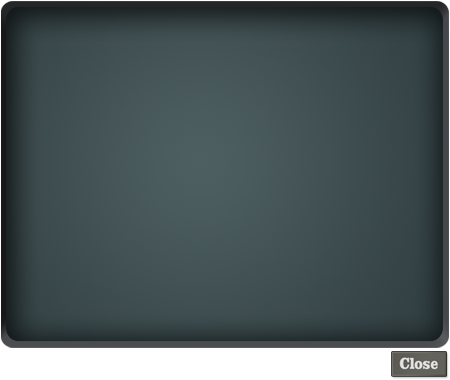
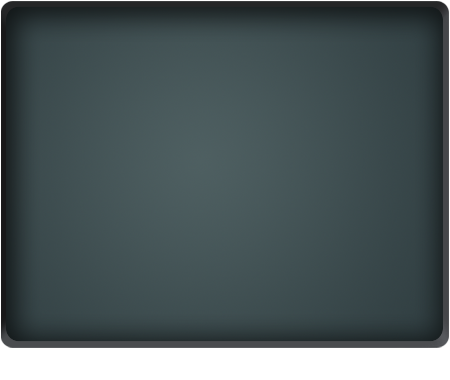
There was a bug with the Close button on the terminal only working part of the time, which I traced to the fact that the PNG image file for the terminal hardcoded the Close button into the terminal image, which covered up the actual close button that the GUI was trying to make. Before this hadn't ca
I removed the close button from the terminal image,
so it always gets created dynamically by the GUI window
paint routine instead, and altered the buttons of the
popup editor to always use the Unity GUI.Button type
instead of trying to roll-my-own button out of a box.
this is much cleaner with the skinning and the window
stacking.

Changed region(s): [[0.8711, 0.9263, 0.9956, 1.0]]

diff --git a/src/Screen/KOSTextEditPopup.cs b/src/Screen/KOSTextEditPopup.cs
@@ -31,7 +31,6 @@ namespace kOS.Screen
         private string contents = "";
         private readonly Texture2D resizeImage = new Texture2D(0, 0, TextureFormat.DXT1, false);
         private bool resizeMouseDown;
-        private Vector2 mouseUpPosRelative;   // Position the mouse was at when button went up.
         private Vector2 resizeOldSize; // width and height it had when the mouse button went down on the resize button.
         private bool isDirty; // have any edits occured since last load or save?
         private bool frozen;
@@ -127,10 +126,6 @@ namespace kOS.Screen
                 windowRect = GUI.Window( uniqueId, windowRect, ProcessWindow, "" );
                 // Some mouse global state data used by several of the checks:
                 Event e = Event.current;
-                if (consumeEvent)
-                {
-                    mouseUpPosRelative = new Vector2(mousePosAbsolute.x, mousePosAbsolute.y);
-                }
 
                 if (consumeEvent)
                 {
@@ -432,9 +427,9 @@ namespace kOS.Screen
             DrawWindow( windowId );
 
             CheckResizeDrag();
-            CheckExitClicked();
-            CheckSaveClicked();
-            CheckReloadClicked();
+            // CheckExitClicked();
+            // CheckSaveClicked();
+            // CheckReloadClicked();
 
             CalcOuterCoords();
         }
@@ -453,9 +448,18 @@ namespace kOS.Screen
             GUILayout.EndArea();
             
             GUI.Label( labelCoords, BuildTitle() );
-            GUI.Box( exitCoords, EXIT_BUTTON_TEXT );
-            GUI.Box( saveCoords, SAVE_BUTTON_TEXT );
-            GUI.Box( reloadCoords, RELOAD_BUTTON_TEXT );
+            if (GUI.Button( exitCoords, EXIT_BUTTON_TEXT ))
+            {
+                ExitEditor();
+            }
+            if (GUI.Button( saveCoords, SAVE_BUTTON_TEXT ))
+            {
+                SaveContents();
+            }
+            if (GUI.Button( reloadCoords, RELOAD_BUTTON_TEXT ))
+            {
+                ReloadContents();
+            }
             KeepCursorScrolledInView();            
 
             GUI.Box( resizeButtonCoords, resizeImage );
@@ -496,8 +500,11 @@ namespace kOS.Screen
 
             Vector2 labSize  = GUI.skin.label.CalcSize( new GUIContent(BuildTitle()) );
             Vector2 exitSize = GUI.skin.box.CalcSize(   new GUIContent(EXIT_BUTTON_TEXT) );
+            exitSize = new Vector2(exitSize.x+4, exitSize.y+4);
             Vector2 saveSize = GUI.skin.box.CalcSize(   new GUIContent(SAVE_BUTTON_TEXT) );
+            saveSize = new Vector2(saveSize.x+4, saveSize.y+4);
             Vector2 reloadSize = GUI.skin.box.CalcSize( new GUIContent(RELOAD_BUTTON_TEXT) );
+            reloadSize = new Vector2(reloadSize.x+4, reloadSize.y+4);
                 
             labelCoords = new Rect( 5, 1, labSize.x, labSize.y);
                 

diff --git a/src/Screen/TermWindow.cs b/src/Screen/TermWindow.cs
@@ -323,9 +323,10 @@ namespace kOS.Screen
             GUI.color = isLocked ? color : colorAlpha;
             GUI.DrawTexture(new Rect(10, 10, terminalImage.width, terminalImage.height), terminalImage);
 
-            if (GUI.Button(new Rect(580, 10, 80, 30), "Close"))
+            if (GUI.Button(closeButtonRect, "Close"))
             {
                 Close();
+                Event.current.Use();
             }
 
             GUI.DragWindow(new Rect(0, 0, 10000, 500));
@@ -363,15 +364,7 @@ namespace kOS.Screen
             {
                 ShowCharacterByAscii((char)1, screen.CursorColumnShow, screen.CursorRowShow, currentTextColor);
             }
-
             GUI.EndGroup();
-            if (Event.current.type == EventType.MouseDown || IsInsideMyExposedPortion(mousePosAbsolute) )
-            {
-                if (closeButtonRect.Contains(mousePosRelative))
-                {
-                    Close();
-                }
-            }
 
         }
 
